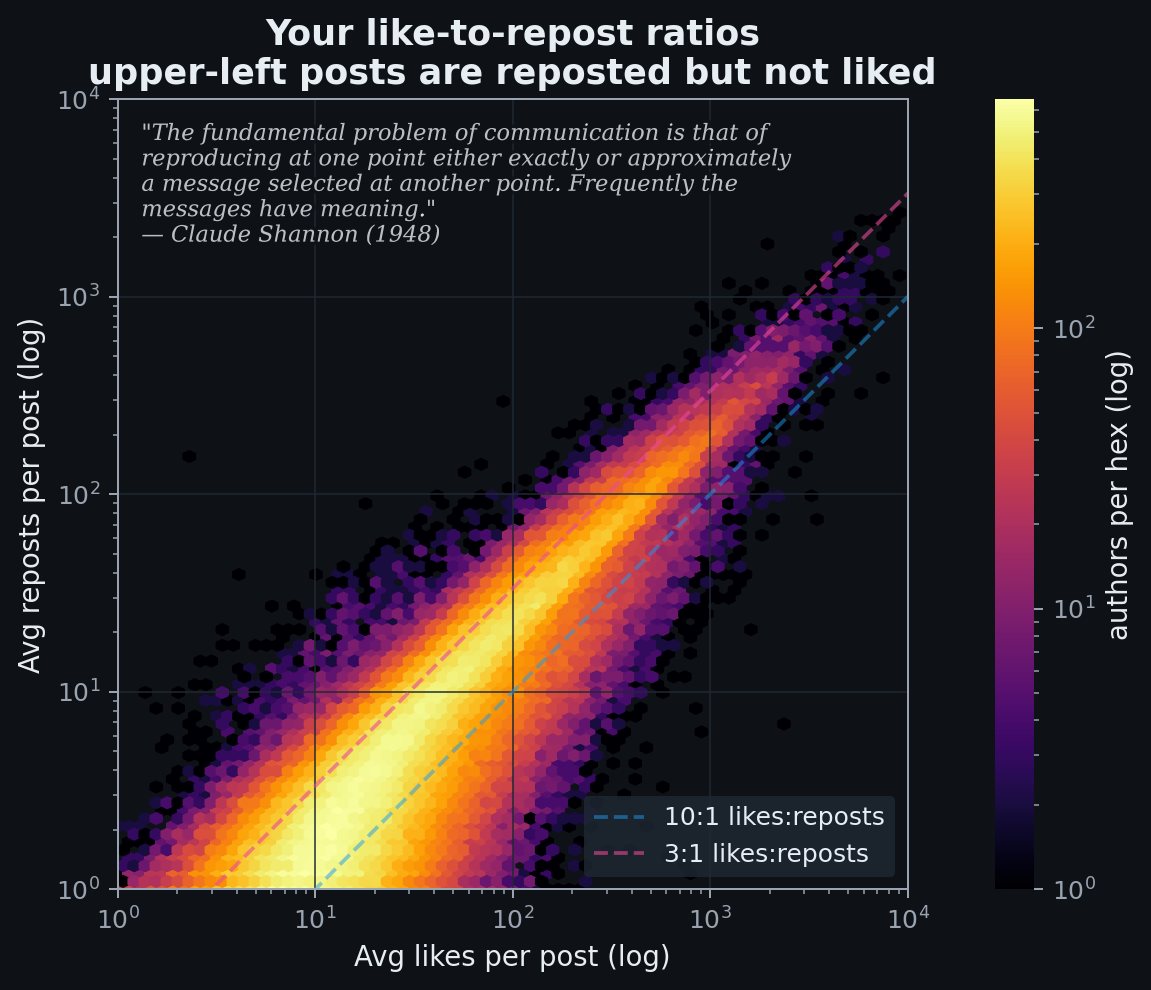
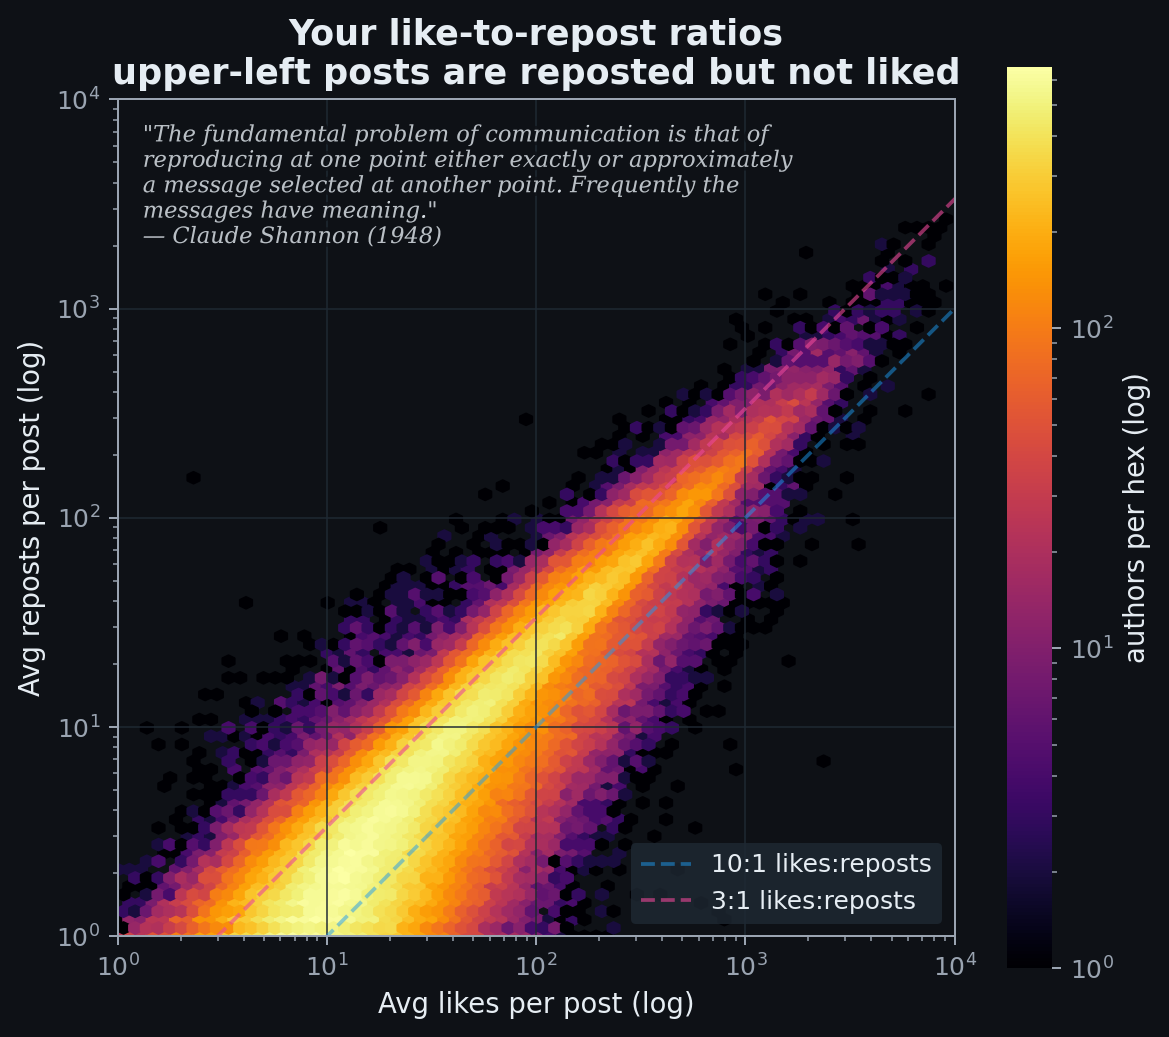
Per-device plots (lazy-loaded mobile variant) + Half-Life/heatmap content
- export_web.export_png_and_bounds emits a MOBILE variant of every plot from the
  same figure: {id}.mobile.png + .mobile.bounds.json at a squarish portrait canvas
  (MOBILE_FIG 6.5x7), so wide desktop plots fill a phone's vertical space.
- PlotPage loads the .mobile asset on phones (<=640px), desktop one otherwise --
  only one image downloads; if a mobile variant 404s (not yet regenerated) it falls
  back to the desktop png so nothing breaks. Bounds switch to match (overlay stays
  aligned per device).
- Half-Life: cap at 4 months (anti-bias) + squash x-canvas ~25%.
- Heatmap: 3-hour blocks (7x8) instead of hourly.
- Regenerated square-desktop plots; punching has its mobile variant.

Run WEB_EXPORT=1 python plots.py for every plot's mobile variant + the content changes.

diff --git a/site/src/components/PlotPage.tsx b/site/src/components/PlotPage.tsx
@@ -39,10 +39,40 @@ function debugPoint(): { x: number; y: number } | null {
   return Number.isFinite(x) && Number.isFinite(y) ? { x, y } : null;
 }
 
+// Phone viewport -> use the .mobile.png / .mobile.bounds.json variants (squarer,
+// fills vertical space). The <picture> below downloads only the matching image;
+// bounds are fetched per-viewport. 640px matches the CSS mobile breakpoint.
+function useIsMobile(): boolean {
+  const q = "(max-width: 640px)";
+  const [m, setM] = useState(
+    () => typeof window !== "undefined" && window.matchMedia(q).matches
+  );
+  useEffect(() => {
+    const mq = window.matchMedia(q);
+    const on = () => setM(mq.matches);
+    mq.addEventListener("change", on);
+    return () => mq.removeEventListener("change", on);
+  }, []);
+  return m;
+}
+
 export function PlotPage({ plot, selectedHandle, onSelectHandle }: Props) {
   const [stageRef, stageSize] = useElementSize<HTMLDivElement>();
   const [natural, setNatural] = useState<{ w: number; h: number } | null>(null);
-  const bounds = useBounds(plot.bounds);
+  const isMobile = useIsMobile();
+  // Use the .mobile.png / .mobile.bounds.json variant on phones. If it 404s (a plot
+  // not regenerated yet), fall back to the desktop asset so nothing breaks.
+  const [mobileMissing, setMobileMissing] = useState(false);
+  useEffect(() => setMobileMissing(false), [plot.id]);
+  const useMobile = isMobile && !mobileMissing && !!plot.image;
+  const imgSrc = useMobile ? plot.image!.replace(/\.png$/, ".mobile.png") : plot.image;
+  const boundsUrl =
+    useMobile && plot.bounds
+      ? plot.bounds.replace(/\.bounds\.json$/, ".mobile.bounds.json")
+      : plot.bounds;
+  const bounds = useBounds(boundsUrl);
+  // re-measure the image when the variant swaps (mobile/desktop differ in size)
+  useEffect(() => setNatural(null), [isMobile, mobileMissing]);
   // Binary point data (handles + positions) for every searchable point plot
   // (svg-point and deck-scatter). One loader, one contract.
   const points = usePointData(plot.data?.handles, plot.data?.positions);
@@ -183,11 +213,12 @@ export function PlotPage({ plot, selectedHandle, onSelectHandle }: Props) {
 
         {plot.image ? (
           <img
-            key={plot.id}
+            key={plot.id + (useMobile ? "-m" : "")}
             className={`plotpage__image plotpage__image--${plot.id}`}
-            src={plot.image}
+            src={imgSrc ?? undefined}
             alt={plot.title}
             draggable={false}
+            onError={() => useMobile && setMobileMissing(true)}
             onLoad={(e) =>
               setNatural({
                 w: e.currentTarget.naturalWidth,

diff --git a/export_web.py b/export_web.py
@@ -40,57 +40,60 @@ SITE_PLOTS.mkdir(parents=True, exist_ok=True)
 # ===========================================================================
 # PNG + BOUNDS
 # ===========================================================================
-def export_png_and_bounds(fig, ax, plot_id, x_log=False, y_log=False, dpi=200):
-    """Save a transparent PNG (title/subtitle blanked, quotes kept) and a
-    bounds.json giving the axes' pixel rect in the saved PNG's pixel space.
+# Squarish / slightly-portrait canvas for the MOBILE variant of every web plot.
+# Wide desktop plots become much taller here so they fill a phone's vertical space
+# instead of being a short strip; the site loads only the matching one per viewport.
+MOBILE_FIG = (6.5, 7.0)
 
-    The figure background is transparent; the axes keep their dark facecolor,
-    which matches the site's dark theme. The PNG MUST be the full, uncropped
-    figure so its pixel size equals imgWidth/imgHeight and plotArea (computed in
-    full-figure coords below) lines up. savefig(bbox_inches=None) does NOT do
-    that -- it defers to rcParams['savefig.bbox'], which plots.py sets to
-    'tight', cropping the image and breaking the pixel mapping. So we force the
-    full figure via rc_context(savefig.bbox=None) at save time.
+
+def export_png_and_bounds(fig, ax, plot_id, x_log=False, y_log=False, dpi=200):
+    """Save a transparent PNG + bounds.json (axes' pixel rect) for the site.
+
+    Emits TWO variants from the SAME drawn figure:
+      {id}.png / {id}.bounds.json          -- desktop, at the cell's figsize
+      {id}.mobile.png / {id}.mobile.bounds.json -- re-rendered at MOBILE_FIG
+    The site picks one per viewport via <picture>, so a phone never downloads the
+    desktop image (and vice-versa). The PNG MUST be the full, uncropped figure so
+    its pixel size equals imgWidth/imgHeight; rcParams sets savefig.bbox='tight',
+    which would crop it, so we force the full figure via rc_context at save time.
     """
     import matplotlib as mpl
-    # Suppress title + subtitle (rendered as HTML on the site). Both the axes
-    # title (used by most cells, sometimes carrying the subtitle as line 2) and
-    # any figure suptitle are blanked. In-plot quotes/annotations are ax.text/
-    # fig.text and are left untouched.
+    # Suppress title + subtitle (rendered as HTML on the site). In-plot quotes are
+    # ax.text/fig.text and are left untouched.
     ax.set_title("")
     if getattr(fig, "_suptitle", None) is not None:
         fig._suptitle.set_text("")
 
-    x_min, x_max = ax.get_xlim()
-    y_min, y_max = ax.get_ylim()
+    def _save(suffix):
+        x_min, x_max = ax.get_xlim()
+        y_min, y_max = ax.get_ylim()
+        fig.canvas.draw()  # finalize layout before reading positions
+        fig_w_px = fig.get_figwidth() * dpi
+        fig_h_px = fig.get_figheight() * dpi
+        pos = ax.get_position()  # figure-fraction bbox; y is bottom-up
+        png_path = SITE_PLOTS / f"{plot_id}{suffix}.png"
+        with mpl.rc_context({"savefig.bbox": None, "savefig.pad_inches": 0}):
+            fig.savefig(png_path, dpi=dpi, transparent=True)
+        bounds = {
+            "xMin": float(x_min), "xMax": float(x_max),
+            "yMin": float(y_min), "yMax": float(y_max),
+            "xLog": bool(x_log), "yLog": bool(y_log),
+            "imgWidth": int(round(fig_w_px)), "imgHeight": int(round(fig_h_px)),
+            "plotArea": {
+                "left": float(pos.x0 * fig_w_px), "top": float((1.0 - pos.y1) * fig_h_px),
+                "right": float(pos.x1 * fig_w_px), "bottom": float((1.0 - pos.y0) * fig_h_px),
+            },
+        }
+        (SITE_PLOTS / f"{plot_id}{suffix}.bounds.json").write_text(json.dumps(bounds, indent=2))
+        print(f"[OK] {plot_id}{suffix}: png ({png_path.stat().st_size/1e3:.0f} KB) + bounds")
+        return bounds
 
-    fig.canvas.draw()  # finalize layout before reading positions
-    fig_w_px = fig.get_figwidth() * dpi
-    fig_h_px = fig.get_figheight() * dpi
-
-    pos = ax.get_position()  # figure-fraction bbox; y is bottom-up
-    left_px = pos.x0 * fig_w_px
-    right_px = pos.x1 * fig_w_px
-    top_px = (1.0 - pos.y1) * fig_h_px      # flip to top-down PNG pixels
-    bottom_px = (1.0 - pos.y0) * fig_h_px
-
-    png_path = SITE_PLOTS / f"{plot_id}.png"
-    with mpl.rc_context({"savefig.bbox": None, "savefig.pad_inches": 0}):
-        fig.savefig(png_path, dpi=dpi, transparent=True)
-
-    bounds = {
-        "xMin": float(x_min), "xMax": float(x_max),
-        "yMin": float(y_min), "yMax": float(y_max),
-        "xLog": bool(x_log), "yLog": bool(y_log),
-        "imgWidth": int(round(fig_w_px)), "imgHeight": int(round(fig_h_px)),
-        "plotArea": {
-            "left": float(left_px), "top": float(top_px),
-            "right": float(right_px), "bottom": float(bottom_px),
-        },
-    }
-    (SITE_PLOTS / f"{plot_id}.bounds.json").write_text(json.dumps(bounds, indent=2))
-    print(f"[OK] {plot_id}: png ({png_path.stat().st_size/1e3:.0f} KB) + bounds")
-    return bounds
+    orig = fig.get_size_inches().copy()
+    desktop = _save("")                # desktop, at the cell's figsize
+    fig.set_size_inches(*MOBILE_FIG)
+    _save(".mobile")                   # mobile, squarish portrait
+    fig.set_size_inches(*orig)         # restore so the cell's plt.show() is unaffected
+    return desktop
 
 
 # ===========================================================================

diff --git a/plots.py b/plots.py
@@ -470,9 +470,13 @@ plt.close('all')  # free figure memory from the previous cell
 # For every like, age_at_like = like_created_at - post_created_at.
 print("\n[7/10] Engagement Half-Life")
 
-# Bin edges in seconds, log-spaced from 1 minute to 1 year (59 bins).
-edges = np.logspace(np.log10(60), np.log10(365*24*3600), 60)
-_lo, _hi, _nb = np.log10(60), np.log10(365 * 24 * 3600), len(edges) - 1
+# Bin edges log-spaced from 1 minute to 4 MONTHS. Capped at 4mo because posts made
+# before we began collecting aren't in posts.parquet, so the join can't see their
+# early likes -- the longer-age tail is collection-biased + sparse (anti-bias), and
+# it was empty dead space on the right anyway.
+_MAXAGE = 120 * 24 * 3600   # 4 months
+edges = np.logspace(np.log10(60), np.log10(_MAXAGE), 60)
+_lo, _hi, _nb = np.log10(60), np.log10(_MAXAGE), len(edges) - 1
 _step = (_hi - _lo) / _nb
 
 # Histogram the per-like age INSIDE polars: assign each age to a log-bin and
@@ -484,7 +488,7 @@ _binned = (joined_lazy
         ((pl.col("like_created_at") - pl.col("post_created_at"))
          .dt.total_seconds()).alias("age")
     )
-    .filter((pl.col("age") > 0) & (pl.col("age") < 365 * 24 * 3600))
+    .filter((pl.col("age") > 0) & (pl.col("age") < _MAXAGE))
     .with_columns(pl.col("age").log10().alias("la"))
     .filter((pl.col("la") >= _lo) & (pl.col("la") < _hi))
     .with_columns(((pl.col("la") - _lo) / _step).floor().cast(pl.Int32).alias("bi"))
@@ -496,7 +500,7 @@ for _r in _binned.iter_rows(named=True):
     if 0 <= _r["bi"] < _nb:
         counts[_r["bi"]] = _r["n"]
 
-fig, ax = plt.subplots(figsize=WEB_FIGSIZE)
+fig, ax = plt.subplots(figsize=(9.4, 5.7))   # x squashed ~25% from the wide default
 ax.stairs(counts, edges, fill=True, color=BSKY_BLUE, alpha=0.85)
 ax.set_xscale("log")
 
@@ -508,7 +512,7 @@ markers = [
     (60*60*24,       "1 day"),
     (60*60*24*7,     "1 week"),
     (60*60*24*30,    "1 month"),
-    (60*60*24*365,   "1 year"),
+    (60*60*24*90,    "3 mo"),
 ]
 for sec, label in markers:
     ax.axvline(sec, color="#9aa4b1", alpha=0.3, linewidth=0.8)
@@ -757,17 +761,17 @@ times = (joined_lazy
 n_heat = int(times["n"].sum())
 print(f"  per-user whole-week trim: {n_heat:,} likes")
 
-mat = np.zeros((7, 24))
+mat = np.zeros((7, 8))   # 3-hour blocks: 24h / 3 = 8 columns
 for row in times.iter_rows(named=True):
-    mat[row["dow"]-1, row["hour"]] = row["n"]
+    mat[row["dow"]-1, row["hour"] // 3] += row["n"]
 
 fig, ax = plt.subplots(figsize=WEB_FIGSIZE)
 im = ax.imshow(mat, aspect="auto", cmap="magma", interpolation="nearest")
 ax.set_yticks(range(7))
 ax.set_yticklabels(["Mon", "Tue", "Wed", "Thu", "Fri", "Sat", "Sun"])
-ax.set_xticks(range(0, 24, 2))
-ax.set_xticklabels([f"{h:02d}:00" for h in range(0, 24, 2)])
-ax.set_xlabel("Hour of day (UTC)")
+ax.set_xticks(range(8))
+ax.set_xticklabels([f"{h:02d}:00" for h in range(0, 24, 3)])
+ax.set_xlabel("Hour of day (UTC, 3-hour blocks)")
 ax.set_title("When Bluesky Wakes Up", loc="left", fontsize=16)
 # Quote OUTSIDE the axes, in the top margin to the right of the title.
 # Shrink the axes' top so the heatmap shifts down and leaves room.
